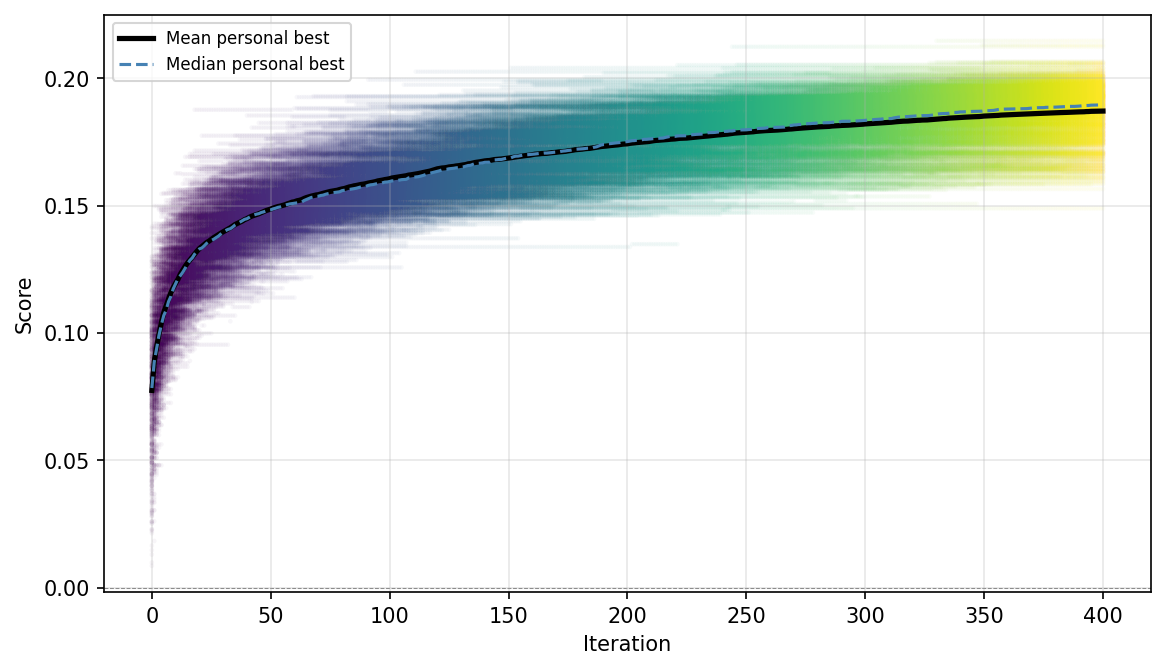
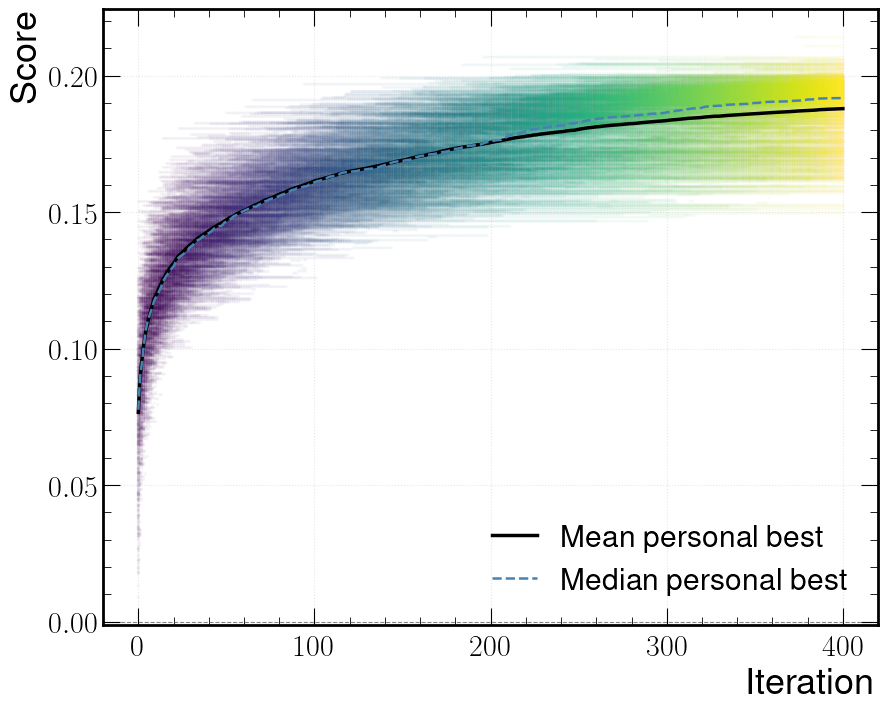
Updates from Overleaf

Changed region(s): [[0.0, 0.0, 1.0, 0.9851], [0.5473, 0.7463, 0.9426, 0.7761]]

diff --git a/Sources/Chapter_VIII.tex b/Sources/Chapter_VIII.tex
@@ -855,7 +855,7 @@ Therefore, once the method for generating signal shapes has been established, th
 \begin{itemize}
     \item The \textbf{Wasserstein distance} or earth movers distance\cite{} $d_W(H_{t},H_{m})$ quantifies the "cost" of transforming one distribution into the other. It is a measure commonly used in machine learning problems because it always has a well-defined gradient, and is stable with respect to small variations. It also offers a specific advantage for comparing kinematic histograms: it is not a bin-to-bin measure, but a genuine distance, i.e., a global shift in the spectrum of $m_{HH}$ toward slightly lower masses does not result in the dramatic differences that bin-to-bin comparison would reveal in the regions of steepest gradient, while the effect through the experimental lens of resolution and signal acceptance is actually small.    
     \item A \textbf{statistics error} by comparing the per bin error $\delta_i^{m}$ of $H_{m}$ with the corresponding bin content $b_i^{m}$ and $\delta_i^{m}$ with the per bin error $\delta_i^{t}$ of $H_{t}$:\\ $f_{stat}(H_{t},H_{m})=1/N_\text{bins}\cdot\sum_{i=0}^{i=N_\text{bins}}(0.5\cdot\delta_i^\text{m}/b_i^{m} +0.5\cdot\delta_i^{m}/\delta_i^{t})$
-    \item The number of negative bins $N_{\rm neg}$ in $H_m$, which is counted directly and used to penalize basis choices that lead to negative bins in the resulting signal template that make no physical sense.
+    \item The number of \textbf{negative bins} $N_{\rm neg}$ in $H_m$, which is counted directly and used to penalize basis choices that lead to negative bins in the resulting signal template that make no physical sense.
 \end{itemize}
 %
 
@@ -893,6 +893,7 @@ Therefore, to reduce the number of hyperparameters and resolve the degeneracy pr
       & $A_{14}$ & $c_2 c_{2\Pg}$                    & 0 & 0 & $\bullet$ & 0 & $\bullet$ \\
         $A_{3}$ & $\kappa_\lambda^2\kappa_\PQt^2$    & $\bullet$ & $\bullet$ & 0 & 0 & 0
       & $A_{15}$ & $\kappa_\lambda c_2 c_\Pg$        & $\bullet$ & 0 & $\bullet$ & $\bullet$ & 0 \\
+        \cmidrule(lr){8-14}
         $A_{4}$ & $\kappa_\PQt^2 c_2$                & 0 & $\bullet$ & $\bullet$ & 0 & 0
       & $A_{16}$ & $c_\Pg^2 c_{2\Pg}$                & 0 & 0 & 0 & $\bullet$ & $\bullet$ \\
         $A_{5}$ & $\kappa_\lambda\kappa_\PQt c_2$    & $\bullet$ & $\bullet$ & $\bullet$ & 0 & 0
@@ -913,13 +914,11 @@ Therefore, to reduce the number of hyperparameters and resolve the degeneracy pr
       & & & & & & & \\
         \bottomrule
     \end{tabular}
-    \caption{Basis parameterization for the NLO HEFT model. Each of the $N_A=23$ basis
-    points is associated with one coefficient $A_i$ of Equation~\ref{eq:heft_diff};
-    a bullet denotes a coupling that is left free at that point and enters the
-    optimization as a hyperparameter, while a zero denotes a coupling that is switched
-    off by construction.}
+    \caption{Basis parameterization for the NLO HEFT model. Each of the $N_A=23$ basis points is associated with one coefficient $A_i$ of Equation~\ref{eq:heft_diff}; a bullet denotes a coupling that is left free at that point and enters the optimization as a hyperparameter, while a zero denotes a coupling that is switched off by construction. The horizontal rule in the right block separates the fifteen combinations arising from the LO topologies of Figure~\ref{fig:BSM_diagrams} from the eight generated by the NLO QCD corrections, all of which involve the Higgs--gluon coupling $c_\Pg$.}
     \label{tab:basis_para_heft}
 \end{table}
+
+
 
 
 \begin{table}
@@ -1087,13 +1086,13 @@ Bayesian optimization~\cite{BayesPaper1,BayesBook,Tani:2022izz} (BO) was also in
 
 Finally, the configuration adopted for PSO uses XXX particles in HEFT and XXXX in SMEFT case, with the number of informants set to X. Here, the performance of each basis is evaluated by summing the scores from the toy-based test points in both 2D scan planes, with the parameter ranges listed in Table \ref{tab:ranges}, and a set of XXXX random points scattered throughout the EFT parameter space.\\
 
-The convergence performance achieved by PSO in both cases are displayed in Figure ~\ref{fig:convergence}, which shows the best personal score for each particle throughout the optimization, along with its median and mean across the swarm. Different configurations of the score parameters $a,\,b,\,c$ of the objective function were tested and were found to yield similarly strong basis sets. It should be stressed, however, that the absolute value of the score is not meaningful in itself, since it depends on the weights $a,\,b,\,c$ used, on the binning and on the composition of the test set, and it is only useful as a relative measure. 
+The convergence performance achieved by the PSO in both cases is shown in Figure ~\ref{fig:convergence}, which displays the best personal score attained by each particle up to a given iteration, along with its median and mean across the swarm, such that as the iterations progress, the PSO particles find progressively better solutions. It is noteworthy that, toward the end, the median of the distributions lies above its mean, indicating a distribution skewed toward low scores, with most of the swarm concentrated near the optimum and a residual tail of particles that continue to explore far from it — a behavior typical of a healthy swarm. The color gradient, from purple to yellow, represents the progression of the optimization from early to late iterations. Different configurations of the score parameters $a,\,b,\,c$ of the objective function were tested and were found to yield similarly strong basis sets. It should be emphasized, however, that the absolute value of the score is not meaningful in itself, since it depends on the weights $a,\,b,\,c$ used, on the binning, and on the composition of the test set, and it is only useful as a relative measure.
 %
 \begin{figure}
     \centering
     \includegraphics[width=0.75\linewidth]{figures/chapter_VIII/convergence_score_HEFT.png}\\
     \includegraphics[width=0.75\linewidth]{figures/chapter_VIII/convergence_score_HEFT.png}
-    \caption{The best personal score of each particle over the course of the optimization for the HEFT case (top) and the SMEFT case (bottom). The median and mean best personal score of all particles is also shown. Note this doesn't show the actual score per iteration for the particles but their personal best i.e the noise of exploration is excluded from this figure. \color{red}TODO: Replace with SMEFT plot!\color{black} }
+    \caption{Evolution of the personal best score of each particle over the course of the optimization for the HEFT case (top) and the SMEFT case (bottom). Each point corresponds to one particle at one iteration; the points are drawn with a low opacity, so that darker regions indicate a higher density of particles and the diffuse edges correspond to isolated ones. The solid and dashed lines are, respectively, the mean and the median of the personal bests across the swarm at each iteration.. Note this does not display the actual score per iteration of the particles but their personal best i.e the noise of exploration is excluded from this figure. \color{red}TODO: Replace with SMEFT plot!\color{black} }
     \label{fig:convergence}
 \end{figure}
 %
@@ -1231,10 +1230,29 @@ Finally, the enhancement resulting from the optimization is displayed in Figure 
     \caption{Relative statistical error $f_{stat}(H_t,H_m)$ and Wasserstein distance $d_W(H_t,H_m)$ between the toy-based $m_{HH}$ shape $H_t$ and the shape $H_m$ obtained from the matrix inversion method, for a non-optimized basis (left) and for the basis    found via PSO and summarized in Table~\ref{tab:bestheft} (right), shown for different planes of the HEFT parameter space.}
     \label{fig:comparePSO}
 \end{figure}
+\\
+
+This section has therefore described the procedure for obtaining optimized bases for each of the theoretical frameworks introduced, based on a reproducible optimization using the PSO algorithm, ensuring consistency in the description across the entire range of couplings in Table \ref{tab:ranges}. During the process, the performance of the method was evaluated based on quality metrics defined according to the problem, using test cases generated with the same analytical description that underlies the linear combination of the matrix inversion method. Therefore, a high score indicates that the optimization is functioning properly, as illustrated in Figure \ref{fig:convergence}; however, additional validation is necessary to fully ascertain the reliability of the method
+
+This is the purpose of the two subsections that follow, in which the performance of the bases is compared with predictions under conditions that progressively approximate those of an actual search. Accordingly, while Section \ref{subsec:closure} keeps the comparison at the generator level: first undergoing a closure test where the method is evaluated on toy templates and its internal consistency is quantified along with the statistical dilution it introduces; and then a validation against independently generated Les Houches Events (LHE) events, which allows the description to be tested at the event level. In the final validation step of the method, Section \ref{subsec:realistic} evaluates the performance throughout the entire analysis chain of a realistic search, as well as its ability to faithfully reproduce effects that do not exist at the generator level.
+
+\subsection{Closure and validation at generator level}
+\label{subsec:closure}
+  % párrafo de entrada: qué distingue los dos ejercicios (closure vs validación)
+  \subsubsection{Toy-based closure}
+  \subsubsection{Validation on LHE events}
+  \subsubsection{Interpreting the metrics}   % los ejemplos W2/W10/W30/W60
+
+\subsection{Performance in a realistic analysis}
+\label{subsec:realistic}
+  \subsubsection{...HEFT: 4b}
+  \subsubsection{Normalisation: acceptance, efficiency and selected cross section}
+  \subsubsection{Two-dimensional coupling planes}
+  \subsubsection{...SMEFT}
 
 
+\subsection{Closure and validation at generator level}
 
-\subsection{Closure and generation-level validation}
 comparación contra muestras simuladas directamente, en distribuciones inclusivas y a nivel de análisis.
 
 \subsection{Performance in a realistic analysis - section o subsection? - depende de si tengo 4b, bbgg, bbtt}
